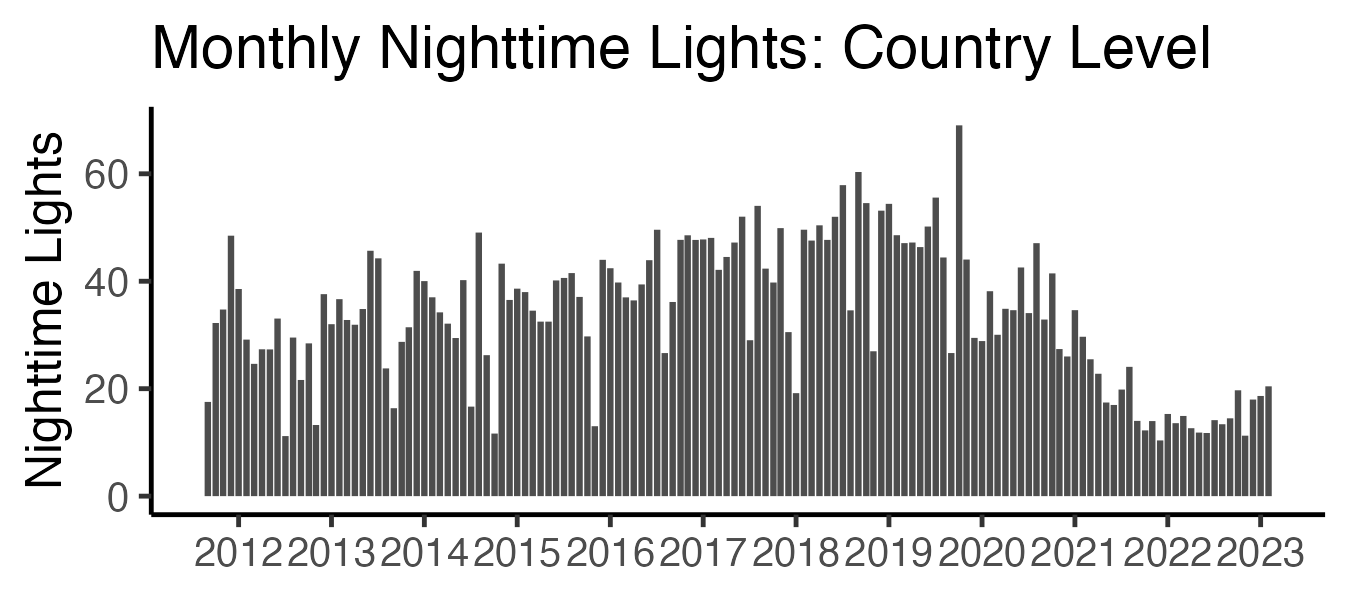
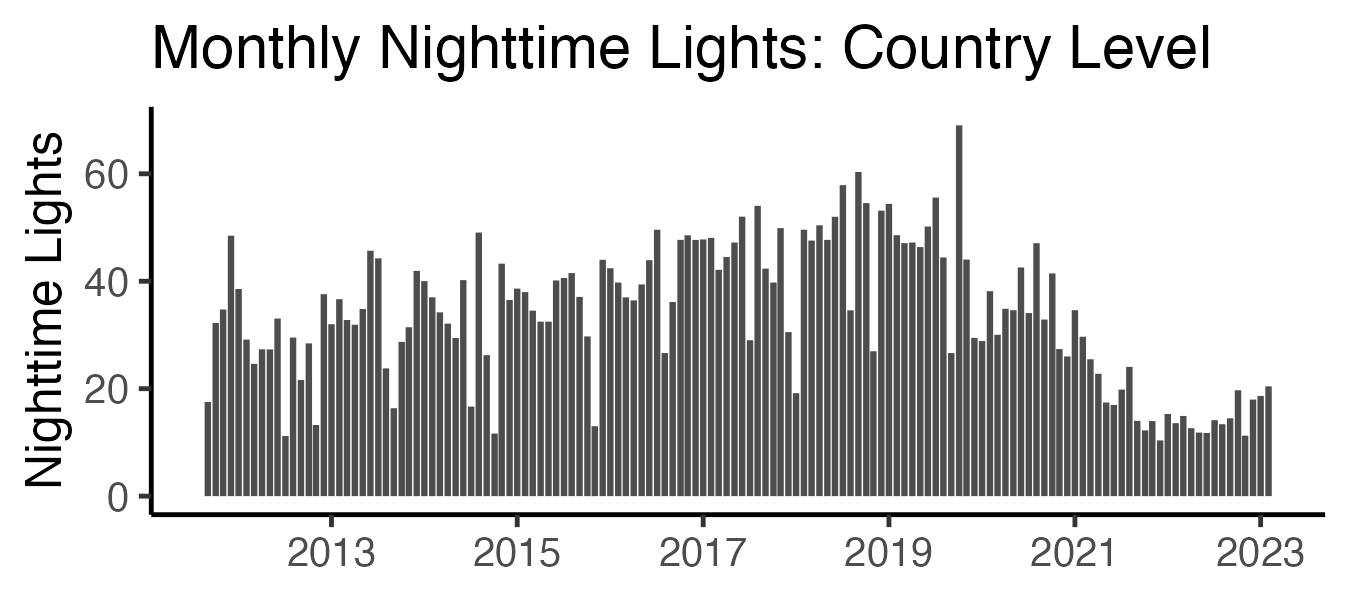
ntl updates

diff --git a/notebooks/ntl-analysis/README.md b/notebooks/ntl-analysis/README.md
@@ -23,6 +23,19 @@ align: center
 Harmonizing VIIRS and DMSP
 ```
 
+While we rely on VIIRS data from BlackMarble, there are other sources of VIIRS data, specifically. Trends between all sources look similar.
+
+* [VIIRS Raw](https://developers.google.com/earth-engine/datasets/catalog/NOAA_VIIRS_DNB_MONTHLY_V1_VCMCFG), available from April 2012 to present
+* [VIIRS Corrected](https://developers.google.com/earth-engine/datasets/catalog/NOAA_VIIRS_DNB_MONTHLY_V1_VCMSLCFG), available January 2014 to present.
+
+```{figure} figures/viirs_diff_sources.png
+---
+scale: 40%
+align: center
+---
+VIIRS Data from Different Sources
+```
+
 The following code cleans the data:
 
 * [Download VIIRS Black Marble data](https://github.com/datapartnership/lebanon-economic-monitor/blob/main/notebooks/ntl-analysis/01_clean_data/01_download_blackmarble.R) Downloads nighttime light BlackMarble data as raster files.
@@ -68,6 +81,26 @@ scale: 40%
 align: center
 ---
 Annual Trends in Nighttime Lights: Governorate Level
+```
+
+### Trends in Nighttime Lights: Monthly
+
+The below figures show trends in nighttime lights across the country (top figure) and at the first administrative division level (bottom figure). The figures show nighttime lights increasing across the country from 2015 to 2019, where nighttime lights then started to notably decline each year since.
+
+```{figure} figures/monthly_trends_adm0.png
+---
+scale: 40%
+align: center
+---
+Monthly Trends in GDP Nighttime Lights: Country Level
+```
+
+```{figure} figures/monthly_trends_adm1.png
+---
+scale: 40%
+align: center
+---
+Monthly Trends in Nighttime Lights: Governorate Level
 ```
 
 ### Change in Nighttime Lights
